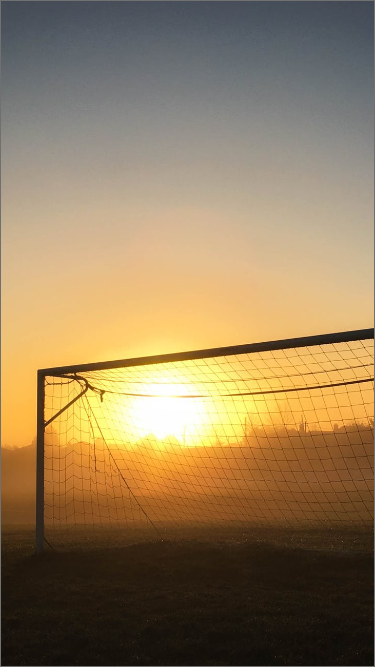
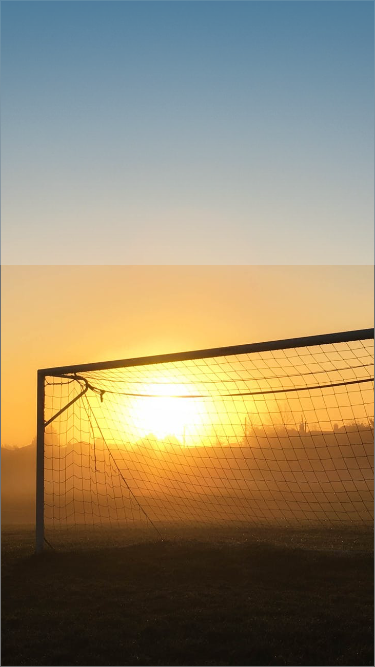
fix collective stats background

diff --git a/lib/views/statistics/collective/collective_statistics_card.dart b/lib/views/statistics/collective/collective_statistics_card.dart
@@ -42,8 +42,8 @@ class _CollectiveStatisticsCardState extends State<CollectiveStatisticsCard> {
       ),
       child: BackgroundGradient(
         colors: [
-          Color.fromRGBO(232, 190, 130, 0.5),
-          Color.fromRGBO(0, 0, 0, 0.7)
+          Color.fromRGBO(152, 169, 176, 1),
+          Color.fromRGBO(0, 0, 0, 0.62)
         ],
         child: Column(
           children: <Widget>[
